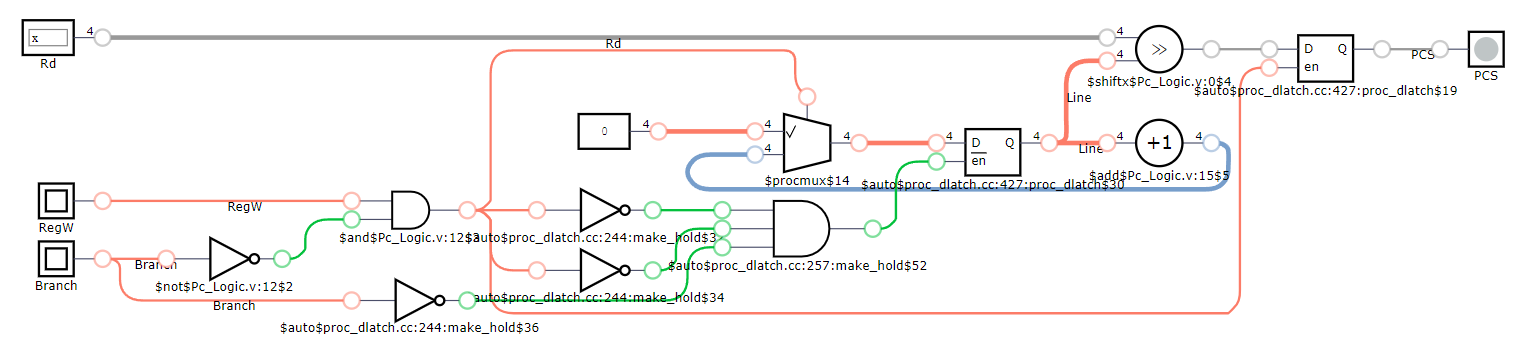
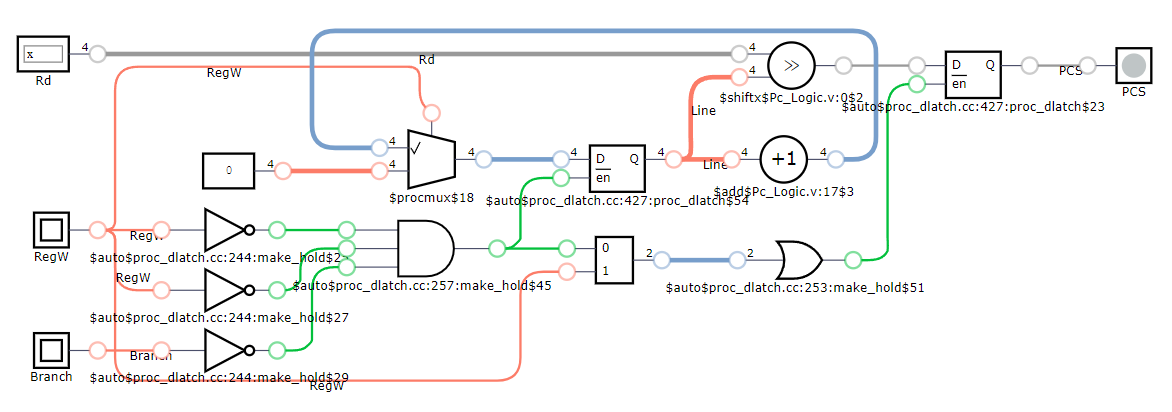
Edit ALU Decoder

diff --git a/README.md b/README.md
@@ -29,8 +29,7 @@
 ![Pc Logic](Pictures/Pc_Logic.png)
 
 #### Description:
-با درست بودن متغیر Branch خروجی رو با خانه صفر حافظه برابر و در غیر این صورت با درست بودن متغیر Regw خروجی رو برابر خانه یک حافظه قرار میدهد و در غیر این حالت خروجی صفر است.
-ولی به طور کلی کار این مدار کنترل خط های کد می باشد.
+وظیفه این واحد کنترل خطی از برنامه است که قرار است خوانده شود و در صورت وجود Branch همیشه خط بعدی خوانده میشود و در صورت وجود RegW برنامه ریست میشود.
 
 ---
 
@@ -40,7 +39,7 @@
 ![ALU Decoder](Pictures/ALU_Decoder.png)
 
 #### Description:
-
+با وجود ALUOp همیشه با سویچ روی Funct سیگنال های کنترلی مختلف رو برای واحد کنترل ایجاد میکنه ولی از 32 حالت ممکن تعدادی از حالات نوشته شده.
 
 ---
 
